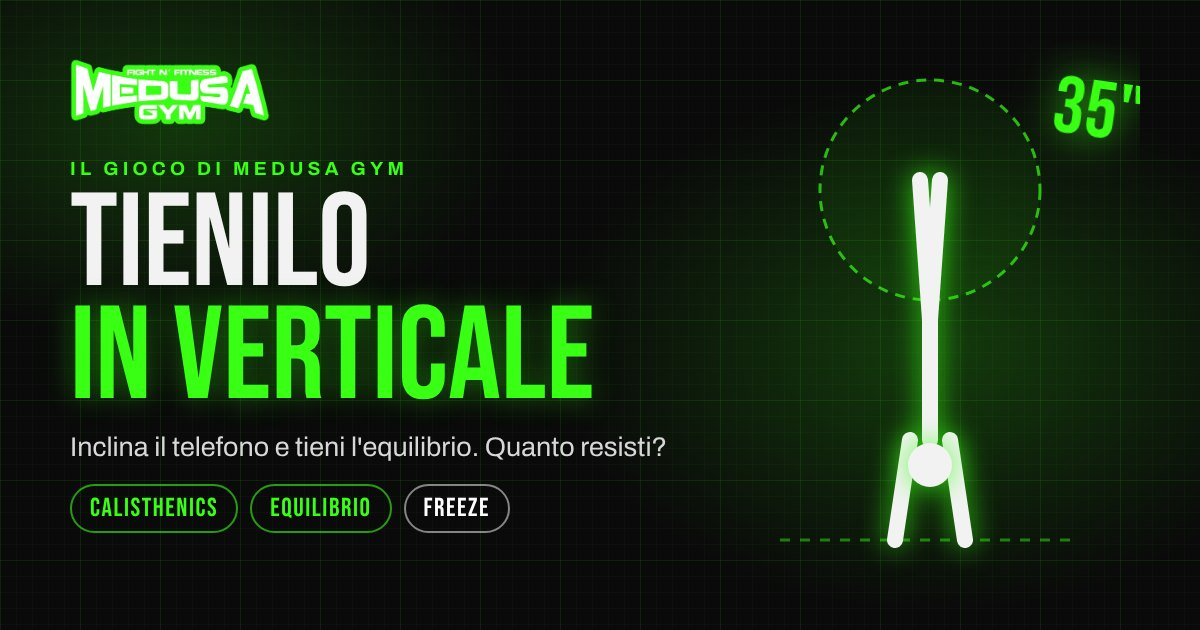
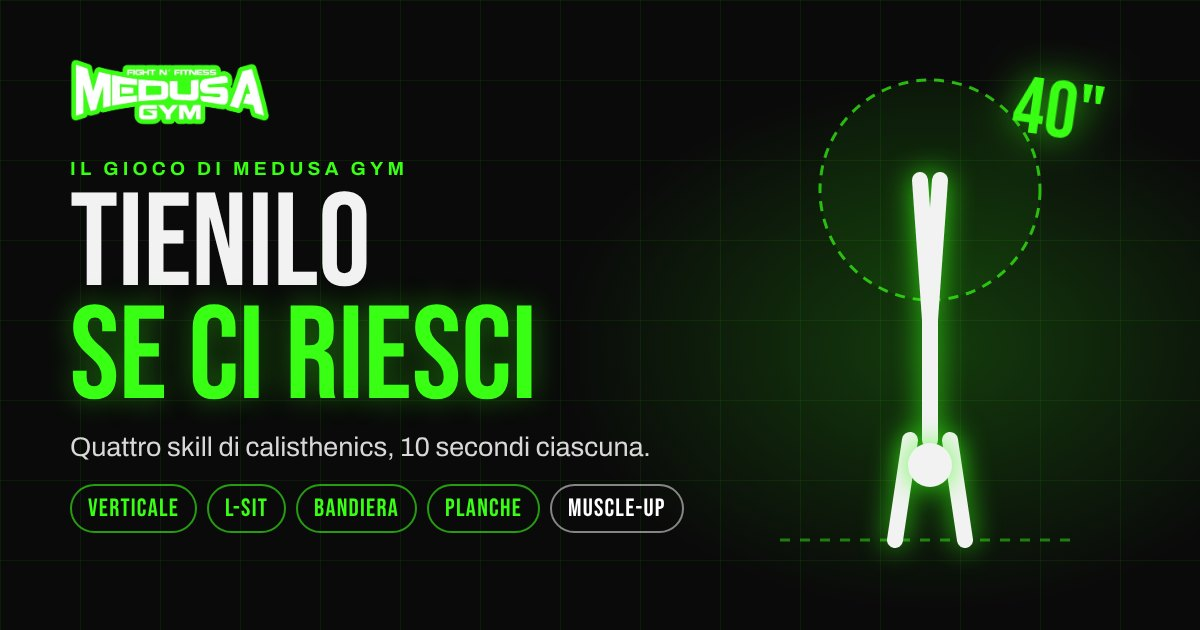
Pagine di prova giochi: Tienilo diventa 4 skill (verticale, L-sit, bandiera, planche) + muscle-up, con bersaglio mobile, spinte e gravità; WOD lampo senza la parola box nei testi
Claude-Session: https://claude.ai/code/session_01749bdvhsPXF6p1GP3Ha98d

diff --git a/medusa-gym/tienilo.html b/medusa-gym/tienilo.html
@@ -24,16 +24,16 @@ window.addEventListener('load',run)})();
 </script>
 <!-- GA4: eventi del sito (WhatsApp, telefono, CTA, chat, form...): vedi js/track.js -->
 <script src="/js/track.js" defer></script>
-<title>Tienilo | Il gioco della verticale di Medusa Gym Roma</title>
-<meta name="description" content="Tieni la verticale in equilibrio inclinando il telefono: gambe aperte, su un braccio e freeze finale. Il gioco di calisthenics di Medusa Gym, Roma Cinecittà.">
+<title>Tienilo | Il gioco di calisthenics di Medusa Gym Roma</title>
+<meta name="description" content="Verticale, L-sit, bandiera e planche: tienile 10 secondi ciascuna inclinando il telefono, poi 3 muscle-up. Il gioco di calisthenics di Medusa Gym, Roma Cinecittà.">
 <meta name="theme-color" content="#0A0A0A">
 <meta name="robots" content="noindex, nofollow">
 <link rel="canonical" href="https://www.medusagym.it/tienilo.html">
 <meta property="og:site_name" content="Medusa Gym - Fight n' Fitness">
 <meta property="og:type" content="website">
 <meta property="og:locale" content="it_IT">
-<meta property="og:title" content="Tienilo: quanto tieni la verticale?">
-<meta property="og:description" content="Tieni la verticale in equilibrio inclinando il telefono: gambe aperte, su un braccio e freeze finale. Il gioco di calisthenics di Medusa Gym, Roma Cinecittà.">
+<meta property="og:title" content="Tienilo: verticale, L-sit, bandiera, planche">
+<meta property="og:description" content="Verticale, L-sit, bandiera e planche: tienile 10 secondi ciascuna inclinando il telefono, poi 3 muscle-up. Il gioco di calisthenics di Medusa Gym, Roma Cinecittà.">
 <meta property="og:url" content="https://www.medusagym.it/tienilo.html">
 <meta property="og:image" content="https://www.medusagym.it/images/og-tienilo.jpg">
 <meta property="og:image:width" content="1200">
@@ -56,7 +56,7 @@ document.addEventListener('cookieyes_banner_load',run);
 window.addEventListener('load',run)})();
 </script>
 <!-- End Meta Pixel -->
-<script type="application/ld+json">{"@context":"https://schema.org","@type":["WebApplication","VideoGame"],"name":"Tienilo","url":"https://www.medusagym.it/tienilo.html","description":"Tieni la verticale in equilibrio inclinando il telefono: gambe aperte, su un braccio e freeze finale. Il gioco di calisthenics di Medusa Gym, Roma Cinecittà.","applicationCategory":"GameApplication","operatingSystem":"Web","inLanguage":"it-IT","isAccessibleForFree":true,"genre":"Sport","about":"Calisthenics","publisher":{"@id":"https://www.medusagym.it/#palestra"}}</script>
+<script type="application/ld+json">{"@context":"https://schema.org","@type":["WebApplication","VideoGame"],"name":"Tienilo","url":"https://www.medusagym.it/tienilo.html","description":"Verticale, L-sit, bandiera e planche: tienile 10 secondi ciascuna inclinando il telefono, poi 3 muscle-up. Il gioco di calisthenics di Medusa Gym, Roma Cinecittà.","applicationCategory":"GameApplication","operatingSystem":"Web","inLanguage":"it-IT","isAccessibleForFree":true,"genre":"Sport","about":"Calisthenics","publisher":{"@id":"https://www.medusagym.it/#palestra"}}</script>
 <style>
 @font-face{font-family:'Bebas Neue';src:url(/fonts/bebas-neue-latin.woff2) format('woff2');font-weight:400;font-style:normal;font-display:swap}
 @font-face{font-family:'Archivo';src:url(/fonts/archivo-latin-var.woff2) format('woff2');font-weight:100 900;font-stretch:62% 125%;font-style:normal;font-display:swap}
@@ -108,17 +108,22 @@ h1,h2,.big{font-family:var(--fh);font-weight:400;text-transform:uppercase;line-h
 </style>
 <style>
 .top{text-align:center;margin-top:10px}
-.lvname{font-family:var(--fh);font-size:clamp(30px,9vw,42px);line-height:1}
-.inst{font-weight:700;color:var(--green);font-size:14px;letter-spacing:.04em;margin-top:4px;min-height:18px}
-.meter{position:relative;height:14px;max-width:320px;margin:12px auto 0;border-radius:9px;background:linear-gradient(90deg,rgba(255,80,80,.5),rgba(255,180,90,.35) 25%,rgba(57,255,20,.45) 42%,rgba(57,255,20,.45) 58%,rgba(255,180,90,.35) 75%,rgba(255,80,80,.5))}
-.meter i{position:absolute;top:-4px;width:6px;height:22px;border-radius:3px;background:#fff;left:50%;margin-left:-3px;box-shadow:0 0 10px #fff}
-#cv{flex:1;min-height:0;width:100%;touch-action:none;display:block;cursor:grab}
+.lvname{font-family:var(--fh);font-size:clamp(32px,9.5vw,44px);line-height:1}
+.inst{font-weight:700;color:var(--green);font-size:14px;letter-spacing:.03em;margin-top:4px;min-height:18px;padding:0 6px}
+.meter{position:relative;height:14px;max-width:320px;margin:10px auto 0;border-radius:9px;background:linear-gradient(90deg,rgba(255,80,80,.55),rgba(255,180,90,.35) 25%,rgba(57,255,20,.45) 40%,rgba(57,255,20,.45) 60%,rgba(255,180,90,.35) 75%,rgba(255,80,80,.55))}
+.meter i{position:absolute;top:-4px;width:6px;height:22px;border-radius:3px;background:#fff;left:50%;margin-left:-3px;box-shadow:0 0 10px #fff;transition:left .05s linear}
+.skbar{display:flex;gap:6px;max-width:320px;margin:10px auto 0}
+.skbar i{flex:1;height:5px;border-radius:9px;background:rgba(255,255,255,.12);position:relative;overflow:hidden}
+.skbar i b{position:absolute;inset:0;width:0;background:var(--green)}
+.skbar i.done b{width:100%}
+#cv{flex:1;min-height:0;width:100%;touch-action:none;display:block}
 .mode{display:flex;gap:8px;margin:14px 0 4px}
 .mode button{flex:1;border:1px solid var(--stroke);background:var(--glass);color:var(--txt);font:400 19px var(--fh);letter-spacing:.05em;padding:12px 6px;border-radius:999px;cursor:pointer}
 .mode button[aria-pressed="true"]{background:var(--green);color:#041004;border-color:var(--green);box-shadow:0 0 20px rgba(57,255,20,.4)}
 .note{font-size:12px;color:var(--mut);margin-top:8px;line-height:1.4}
 .hint{text-align:center;color:var(--mut);font-size:12px;font-weight:600;margin-top:4px;min-height:15px}
-.freeze .meter{box-shadow:0 0 0 2px #8fe8ff,0 0 24px rgba(143,232,255,.6)}
+.warn{position:fixed;top:44%;z-index:9;font-family:var(--fh);font-size:64px;color:#ffb35c;text-shadow:0 0 24px rgba(255,140,40,.8);pointer-events:none;animation:wr .7s ease-out both}
+@keyframes wr{0%{opacity:0;transform:scale(1.8)}30%{opacity:1;transform:scale(1)}100%{opacity:0}}
 </style>
 </head>
 <body>
@@ -126,9 +131,10 @@ h1,h2,.big{font-family:var(--fh);font-weight:400;text-transform:uppercase;line-h
 <div class="bp"></div><div class="aurora"></div>
 <canvas id="fx"></canvas>
 <div id="game">
-  <div class="hud" style="margin-top:14px"><div id="lvn">LIVELLO 1</div><div class="score" id="sec">0,0</div><div>SECONDI</div></div>
-  <div class="top"><div class="lvname" id="lvname">Verticale</div><div class="inst" id="inst"></div><div class="meter" aria-hidden="true"><i id="mi"></i></div></div>
-  <canvas id="cv" aria-label="Atleta in verticale: tienilo in equilibrio"></canvas>
+  <div class="hud" style="margin-top:14px"><div id="skn">ESERCIZIO 1/4</div><div class="score" id="sec">0,0</div><div>SECONDI</div></div>
+  <div class="top"><div class="lvname" id="lvname">Tienilo</div><div class="inst" id="inst"></div><div class="meter" aria-hidden="true"><i id="mi"></i></div>
+  <div class="skbar" aria-hidden="true"><i><b></b></i><i><b></b></i><i><b></b></i><i><b></b></i><i><b></b></i></div></div>
+  <canvas id="cv" aria-label="Area di gioco"></canvas>
   <div class="hint" id="hint"></div>
 </div>
 <div class="overlay" id="ov"></div>
@@ -164,104 +170,152 @@ function countUp(el,n,dec=0,ms=1200){const t0=performance.now();const tk=t=>{con
 const C=$("cv"),X=C.getContext("2d");let CW,CH;
 function fitC(){const d=Math.min(2,devicePixelRatio||1),r=C.getBoundingClientRect();CW=r.width;CH=r.height;C.width=CW*d;C.height=CH*d;X.setTransform(d,0,0,d,0,0)}
 addEventListener("resize",fitC);
-const LV=[{n:"Verticale",t:0,G:2.6,noise:.6},{n:"Gambe aperte",t:10,G:3.4,noise:.85},{n:"Su un braccio",t:20,G:4.2,noise:1.05},{n:"Freeze",t:30,G:4.4,noise:.45,freeze:true},{n:"Leggenda",t:35,G:5,noise:1.3}];
+const SKDUR=10;
+/* ---------- input: inclinazione (destra/sinistra e avanti/indietro), dito, tastiera, tocchi ---------- */
 let MODE=(window.DeviceOrientationEvent&&matchMedia("(pointer:coarse)").matches)?"tilt":"dito";
-let G={},tiltRaw=0,tiltBase=0,gotTilt=false,drag=null;
-addEventListener("deviceorientation",e=>{if(e.gamma==null)return;gotTilt=true;tiltRaw=e.gamma});
-C.addEventListener("pointerdown",e=>{e.preventDefault();drag={x0:e.clientX,x:e.clientX};C.setPointerCapture(e.pointerId)});
-C.addEventListener("pointermove",e=>{if(drag)drag.x=e.clientX});
+let gRaw=0,bRaw=0,g0=0,b0=0,gotTilt=false,drag=null,kx=0,ky=0;
+addEventListener("deviceorientation",e=>{if(e.gamma==null)return;gotTilt=true;gRaw=e.gamma;bRaw=e.beta});
+C.addEventListener("pointerdown",e=>{e.preventDefault();ac();drag={x0:e.clientX,y0:e.clientY,x:e.clientX,y:e.clientY};try{C.setPointerCapture(e.pointerId)}catch(x){}if(G.state==="play"&&SK[G.k].tap)SK[G.k].tap(e)});
+C.addEventListener("pointermove",e=>{if(drag){drag.x=e.clientX;drag.y=e.clientY}});
 const endDrag=()=>{drag=null};C.addEventListener("pointerup",endDrag);C.addEventListener("pointercancel",endDrag);
-let keyDir=0;addEventListener("keydown",e=>{if(e.key==="ArrowLeft")keyDir=-1;if(e.key==="ArrowRight")keyDir=1});addEventListener("keyup",e=>{if(e.key==="ArrowLeft"||e.key==="ArrowRight")keyDir=0});
-function control(){let c=0;
-  if(MODE==="tilt"&&gotTilt)c=(tiltRaw-tiltBase)/18;
-  if(drag)c=(drag.x-drag.x0)/90;
-  if(keyDir)c=keyDir*.8;
-  return Math.max(-1,Math.min(1,c))}
-/* omino in verticale: perno nelle mani, angolo th */
-function drawMan(th,lvIdx,glow){const cx=CW/2,fy=CH-40,sc=Math.min(1,CH/420);
-  X.clearRect(0,0,CW,CH);
-  // pavimento
-  X.strokeStyle="rgba(57,255,20,.35)";X.setLineDash([6,6]);X.lineWidth=2;X.beginPath();X.moveTo(cx-150,fy);X.lineTo(cx+150,fy);X.stroke();X.setLineDash([]);
-  // cerchio bersaglio per i piedi
-  const L=230*sc,lim=G.lim;X.strokeStyle=glow?"rgba(143,232,255,.8)":"rgba(57,255,20,.6)";X.lineWidth=2;X.setLineDash([5,5]);X.beginPath();X.arc(cx,fy-L,Math.sin(lim)*L,0,7);X.stroke();X.setLineDash([]);
-  X.fillStyle="rgba(57,255,20,.06)";X.fill();
-  X.save();X.translate(cx,fy);X.rotate(th);X.scale(sc,sc);
-  X.strokeStyle="#F2F2F2";X.lineWidth=8;X.lineCap="round";X.lineJoin="round";X.shadowColor=glow?"#8fe8ff":"rgba(57,255,20,.7)";X.shadowBlur=14;
-  const P=(pts)=>{X.beginPath();X.moveTo(pts[0][0],pts[0][1]);for(let i=1;i<pts.length;i++)X.lineTo(pts[i][0],pts[i][1]);X.stroke()};
-  const one=lvIdx>=2&&lvIdx!==3;
-  // braccia
-  if(one){P([[0,0],[0,-62]]);P([[0,-62],[28,-40],[44,-52]])}else{P([[-22,0],[-14,-62]]);P([[22,0],[14,-62]])}
-  // busto
-  P([[0,-62],[0,-140]]);
-  // testa (sotto le spalle, verso il pavimento)
-  X.fillStyle="#F2F2F2";X.beginPath();X.arc(0,-46,13,0,7);X.fill();
-  // gambe
-  if(lvIdx===1)P([[0,-140],[-48,-215]]),P([[0,-140],[48,-215]]);
-  else P([[0,-140],[-5,-230]]),P([[0,-140],[5,-230]]);
-  X.restore();
-  // mani a terra
-  X.fillStyle="#39FF14";X.beginPath();X.arc(cx,fy,5,0,7);X.fill();
-}
-function hudMeter(th){$("mi").style.left=(50+Math.max(-1,Math.min(1,th/G.lim))*48)+"%"}
+addEventListener("keydown",e=>{if(e.key==="ArrowLeft")kx=-1;if(e.key==="ArrowRight")kx=1;if(e.key==="ArrowUp")ky=-1;if(e.key==="ArrowDown")ky=1;
+  if((e.key===" "||e.key==="Enter")&&!e.repeat&&G.state==="play"&&SK[G.k].tap){e.preventDefault();SK[G.k].tap({clientX:innerWidth/2,clientY:innerHeight/2})}});
+addEventListener("keyup",e=>{if(e.key==="ArrowLeft"||e.key==="ArrowRight")kx=0;if(e.key==="ArrowUp"||e.key==="ArrowDown")ky=0});
+const cl=v=>Math.max(-1,Math.min(1,v));
+function ctrlX(){if(kx)return kx*.8;if(drag&&!SK[G.k].tap)return cl((drag.x-drag.x0)/90);if(MODE==="tilt"&&gotTilt)return cl((gRaw-g0)/18);return 0}
+function ctrlY(){if(ky)return ky*.8;if(drag)return cl((drag.y-drag.y0)/90);if(MODE==="tilt"&&gotTilt)return cl((bRaw-b0)/18);return 0}
+/* ---------- disegno ---------- */
+function stroke(glow){X.strokeStyle="#F2F2F2";X.lineWidth=8;X.lineCap="round";X.lineJoin="round";X.shadowColor=glow||"rgba(57,255,20,.7)";X.shadowBlur=14;X.fillStyle="#F2F2F2"}
+function P(pts){X.beginPath();X.moveTo(pts[0][0],pts[0][1]);for(let i=1;i<pts.length;i++)X.lineTo(pts[i][0],pts[i][1]);X.stroke()}
+function head(x,y){X.beginPath();X.arc(x,y,13,0,7);X.fill()}
+function floorLine(y){X.save();X.shadowBlur=0;X.strokeStyle="rgba(57,255,20,.35)";X.setLineDash([6,6]);X.lineWidth=2;P([[CW/2-160,y],[CW/2+160,y]]);X.restore()}
+function target(x,y,r,col){X.save();X.shadowBlur=0;X.strokeStyle=col||"rgba(57,255,20,.65)";X.lineWidth=2;X.setLineDash([5,5]);X.beginPath();X.arc(x,y,r,0,7);X.stroke();X.fillStyle="rgba(57,255,20,.07)";X.fill();X.restore()}
+const sc=()=>Math.min(1,CH/430,CW/340);
+/* ---------- esercizi ---------- */
+const SK=[
+/* 1. VERTICALE: equilibrio destra/sinistra, il cerchio si sposta e arrivano spinte */
+{n:"Verticale",inst:"Tieni i piedi nel cerchio: si sposta!",hint:()=>MODE==="tilt"?"Inclina il telefono a destra e sinistra":"Trascina il dito a destra e sinistra",
+ init(){G.th=(Math.random()<.5?-1:1)*.03;G.w=0;G.ph=Math.random()*6},
+ step(dt,t){const tg=.2*Math.sin(t*.9+G.ph)+.08*Math.sin(t*2.3);G.tg=tg;
+  const acc=2.8*Math.sin(G.th)+ctrlX()*7.5-2*G.w+G.noise*2;G.w+=acc*dt;G.th+=G.w*dt;
+  gust(t,v=>G.w+=v);G.err=(G.th-tg)/.3;return Math.abs(G.th-tg)>.3||Math.abs(G.th)>.75},
+ draw(){const s=sc(),cx=CW/2,fy=CH-36,L=230*s;floorLine(fy);target(cx+Math.sin(G.tg)*L,fy-Math.cos(G.tg)*L,Math.sin(.3)*L);
+  X.save();X.translate(cx,fy);X.rotate(G.th);X.scale(s,s);stroke();P([[-22,0],[-14,-62]]);P([[22,0],[14,-62]]);P([[0,-62],[0,-140]]);head(0,-46);P([[0,-140],[-5,-230]]);P([[0,-140],[5,-230]]);X.restore()}},
+/* 2. L-SIT: le gambe cedono con la fatica, tocchi per tenerle su (ma non troppo) */
+{n:"L-sit",inst:"Tocca per tenere su le gambe, nella fascia verde",hint:()=>"Tocca lo schermo a ritmo: troppo poco cedono, troppo salgono",
+ init(){G.phi=.05;G.v=0},
+ tap(e){G.v-=.6;tone(740,.04,"triangle",.08);vib(6)},
+ step(dt,t){const f=.32+t*.035+Math.max(0,Math.sin(t*1.7))*.12;G.v+=(f*2.4-G.v*2.2)*dt;G.phi+=G.v*dt+G.noise*.15*dt;
+  G.err=(G.phi-.04)/.24;return G.phi>.42||G.phi<-.36},
+ draw(){const s=sc(),cx=CW/2,fy=CH-36;floorLine(fy);
+  X.save();X.translate(cx-40*s,fy);X.scale(s,s);
+  X.save();X.shadowBlur=0;X.fillStyle="rgba(255,255,255,.18)";X.fillRect(-26,-70,10,70);X.fillRect(18,-70,10,70);X.fillRect(-40,-78,80,8);X.restore();
+  stroke();const hip=[18,-104];P([[-4,-78],[-4,-178]]);P([[-4,-178],hip]);head(-8,-202);
+  const a=G.phi,knee=[hip[0]+Math.cos(a)*80,hip[1]+Math.sin(a)*80],foot=[hip[0]+Math.cos(a)*165,hip[1]+Math.sin(a)*165];P([hip,knee,foot]);
+  X.save();X.shadowBlur=0;X.strokeStyle="rgba(57,255,20,.55)";X.lineWidth=2;X.setLineDash([5,5]);X.beginPath();X.moveTo(hip[0],hip[1]);X.arc(hip[0],hip[1],175,-.2,.28);X.closePath();X.stroke();X.fillStyle="rgba(57,255,20,.08)";X.fill();X.restore();
+  X.restore()}},
+/* 3. BANDIERA: il corpo è orizzontale sul palo, la gravità lo tira giù sempre */
+{n:"Bandiera",inst:"La gravità lo tira giù: tienilo orizzontale",hint:()=>MODE==="tilt"?"Inclina a destra per alzarlo, a sinistra per abbassarlo":"Trascina a destra per alzarlo, a sinistra per abbassarlo",
+ init(){G.psi=0;G.w=0;G.ph=Math.random()*6},
+ step(dt,t){const bias=1.6+.7*Math.sin(t*1.25+G.ph)+.35*Math.sin(t*3.1);G.bias=bias;
+  const acc=-bias+ctrlX()*4.2-2.4*G.w+G.noise*1.5;G.w+=acc*dt;G.psi+=G.w*dt;gust(t,v=>G.w+=v*.7,true);
+  G.err=G.psi/.42;return Math.abs(G.psi)>.42},
+ draw(){const s=sc(),px=CW/2-110*s,fy=CH-36;floorLine(fy);
+  X.save();X.shadowBlur=0;X.fillStyle="rgba(255,255,255,.22)";X.fillRect(px-7,fy-330*s,14,330*s);X.restore();
+  X.save();X.translate(px,fy-185*s);X.rotate(-G.psi);X.scale(s,s);
+  X.save();X.shadowBlur=0;X.strokeStyle="rgba(57,255,20,.5)";X.lineWidth=2;X.setLineDash([5,5]);P([[20,-30],[250,-30]]);P([[20,30],[250,30]]);X.restore();
+  stroke();P([[0,-55],[38,-20]]);P([[0,40],[38,8]]);P([[38,-20],[38,8],[130,0]]);head(28,-34);P([[130,0],[235,-6]]);P([[130,0],[235,8]]);X.restore()}},
+/* 4. PLANCHE: equilibrio avanti/indietro, il bersaglio si muove */
+{n:"Planche",inst:"Avanti e indietro: tieni le spalle sul bersaglio",hint:()=>MODE==="tilt"?"Inclina il telefono avanti e indietro":"Trascina il dito su e giù",
+ init(){G.th=(Math.random()<.5?-1:1)*.03;G.w=0;G.ph=Math.random()*6},
+ step(dt,t){const tg=.14*Math.sin(t*1.1+G.ph);G.tg=tg;
+  const acc=2.8*Math.sin(G.th)-ctrlY()*7.5-2*G.w+G.noise*2.2;G.w+=acc*dt;G.th+=G.w*dt;gust(t,v=>G.w+=v);
+  G.err=(G.th-tg)/.26;return Math.abs(G.th-tg)>.26||Math.abs(G.th)>.7},
+ draw(){const s=sc(),cx=CW/2,fy=CH-60;floorLine(fy+24*s);
+  const sx=cx+Math.sin(G.tg)*120*s;target(sx,fy-70*s,26*s);
+  X.save();X.translate(cx,fy);X.scale(s,s);stroke();
+  const sh=[Math.sin(G.th)*120,-70];P([[-8,24],[sh[0]*.4,-25],sh]);P([[8,24],[sh[0]*.4+6,-25],[sh[0]+6,-70]]);
+  head(sh[0]+22,-80);P([sh,[sh[0]-150,-64-Math.sin(G.th)*30]]);P([[sh[0]-150,-64-Math.sin(G.th)*30],[sh[0]-230,-60-Math.sin(G.th)*50]]);X.restore()}}
+];
+/* finale: muscle-up a tempo */
+const MU={n:"Muscle-up",inst:"Tocca nel verde per salire sopra la sbarra",hint:()=>"3 tentativi: ogni muscle-up vale 5 secondi di bonus"};
+/* spinte improvvise con avviso */
+function gust(t,apply,down){if(t<G.nextGust)return;if(!G.gw){G.gw={dir:down?-1:(Math.random()<.5?-1:1),at:t+.7};
+  const w=document.createElement("div");w.className="warn";w.style.animationDuration=".85s";w.textContent=G.gw.dir<0?(down?"↓ SPINTA":"← SPINTA"):"SPINTA →";w.style.left=G.gw.dir<0?"14%":"auto";w.style.right=G.gw.dir>0?"14%":"auto";document.body.appendChild(w);setTimeout(()=>w.remove(),850);tone(330,.12,"sawtooth",.08)}
+  else if(t>=G.gw.at){apply(G.gw.dir*.6*(1+G.k*.15));G.gw=null;G.nextGust=t+2.2+Math.random()*1.8-G.k*.2}}
+/* ---------- flusso ---------- */
 async function calibrate(){
   if(MODE==="tilt"&&typeof DeviceOrientationEvent!=="undefined"&&typeof DeviceOrientationEvent.requestPermission==="function"){
     try{const r=await DeviceOrientationEvent.requestPermission();if(r!=="granted")MODE="dito"}catch(e){MODE="dito"}}
-  if(MODE==="tilt"){await splash("Tieni il telefono","dritto davanti a te",1000);await sleep(300);
-    if(!gotTilt){MODE="dito";await splash("Uso il dito","il telefono non manda l'inclinazione",1300)}else{let s=0,n=0;const t0=performance.now();while(performance.now()-t0<500){s+=tiltRaw;n++;await sleep(25)}tiltBase=s/n}}
-  $("hint").textContent=MODE==="tilt"?"Se cade da una parte, inclina il telefono dalla parte opposta":"Se cade da una parte, trascina il dito dalla parte opposta";}
-async function start(){G={th:(Math.random()<.5?-1:1)*.02,w:0,t:0,lv:0,lim:.55,state:"wait",fz:0,noise:0};$("sec").textContent="0,0";fitC();drawMan(G.th,0);
+  if(MODE==="tilt"){await splash("Tieni il telefono","comodo davanti a te",1000);await sleep(250);
+    if(!gotTilt){MODE="dito";await splash("Uso il dito","il telefono non manda l'inclinazione",1300)}
+    else{let a=0,b=0,n=0;const t0=performance.now();while(performance.now()-t0<500){a+=gRaw;b+=bRaw;n++;await sleep(25)}g0=a/n;b0=b/n}}}
+function setSkill(k){G.k=k;const s=SK[k];$("skn").textContent="ESERCIZIO "+(k+1)+"/4";$("lvname").textContent=s.n;$("inst").textContent=s.inst;$("hint").textContent=s.hint();
+  document.querySelectorAll(".skbar i").forEach((e,i)=>e.classList.toggle("done",i<k));G.nextGust=1.6+Math.random();G.gw=null;G.noise=0;G.err=0;s.init()}
+async function start(){G={t:0,k:0,state:"wait",noise:0,total:0,mu:0};$("sec").textContent="0,0";fitC();X.clearRect(0,0,CW,CH);
   await calibrate();
-  for(const n of ["3","2","1"]){await splash(n,"",600);tone(660,.1,"square",.1)}
-  await splash("Tienilo!","",600);tone(1046,.15,"triangle",.18);trk("tienilo_start",{modo:MODE});
-  G.state="play";G.last=performance.now();setLevel(0);requestAnimationFrame(step)}
-function setLevel(i){G.lv=i;const L=LV[i];$("lvn").textContent="LIVELLO "+(i+1);$("lvname").textContent=L.n;G.lim=[.55,.5,.44,.44,.4][i];
-  document.body.classList.toggle("freeze",!!L.freeze);
-  $("inst").textContent=L.freeze?"Resta immobile al centro per 5 secondi: bonus!":i===0?"Tienilo dentro il cerchio":i===1?"Le gambe aperte lo rendono più instabile":i===2?"Un braccio solo: equilibrio fine":"Fin dove arrivi?";
-  if(i>0){tone(1318,.12,"triangle",.16);setTimeout(()=>tone(1760,.14,"triangle",.14),90);vib([20,40,20]);
-    $("ov").innerHTML=`<div class="splash"><div class="big" style="font-size:clamp(36px,10vw,60px)">${L.freeze?"Freeze!":L.n}</div></div>`;setTimeout(()=>$("ov").innerHTML="",900)}}
-function step(t){if(G.state!=="play")return;let dt=Math.min(.04,(t-G.last)/1000);G.last=t;G.t+=dt;
-  const L=LV[G.lv];
-  // rumore lento (tremore del corpo) + piccole spinte
-  G.noise+= (Math.random()-.5)*L.noise*dt*6;G.noise*=Math.pow(.2,dt);
-  const c=control();
-  const acc=L.G*Math.sin(G.th)+c*7.5-2*G.w+G.noise*2.2;
-  G.w+=acc*dt;G.th+=G.w*dt;
-  if(L.freeze){if(Math.abs(G.th)<.12&&Math.abs(G.w)<.5)G.fz+=dt}
-  const nx=LV.findIndex((l,i)=>i>G.lv&&G.t>=l.t);if(nx>0)setLevel(nx);
-  $("sec").textContent=G.t.toFixed(1).replace(".",",");
-  drawMan(G.th,G.lv,!!L.freeze);hudMeter(G.th);
-  if(Math.abs(G.th)>G.lim){fall();return}
-  requestAnimationFrame(step)}
-async function fall(){G.state="wait";tone(220,.3,"sawtooth",.14,80);vib([60,40,80]);
-  // caduta animata
-  const dir=Math.sign(G.th),t0=performance.now();await new Promise(r=>{const a=t=>{const k=Math.min(1,(t-t0)/450);drawMan(G.th+dir*k*1.2,G.lv,false);if(k<1)requestAnimationFrame(a);else r()};requestAnimationFrame(a)});
-  const r=C.getBoundingClientRect();spark(r.left+r.width/2+dir*80,r.bottom-40,40,"255,180,90");
-  await splash("Giù!","",800);end()}
-function level(s){return s>=35?["Leggenda della verticale","Equilibrio da atleta. Vieni a mostrarlo a Yvonne."]:s>=20?["Corpo libero vero","Controllo e calma: in sala con la calisthenics arrivi alla verticale vera."]:s>=10?["In equilibrio","Buon controllo. La verticale vera si costruisce con le progressioni giuste."]:["Principiante","Tutti partono da qui. La prima lezione di Calisthenics è gratis."]}
-function end(){const bonus=Math.min(10,Math.round(G.fz*2)),tot=+(G.t+bonus).toFixed(1),[lv,txt]=level(tot);
-  trk("tienilo_end",{secondi:tot,livello:lv,modo:MODE,bonus});
-  const s=tot.toFixed(1).replace(".",",");
-  const msg=`Ciao Medusa! Ho tenuto la verticale ${s} secondi a "Tienilo" sul vostro sito (livello: ${lv}). Voglio provarla dal vivo: posso prenotare la prova gratuita di Calisthenics?`;
-  $("scr").innerHTML=`<div class="card"><div class="eyebrow">VERTICALE TENUTA</div><div class="big final" id="fin">0</div><div class="unit">secondi</div><div class="lvl">${lv}</div><p>${txt}</p>
-    <div class="break"><div><b>${G.t.toFixed(1).replace(".",",")}</b>in equilibrio</div><div><b>+${bonus}</b>bonus freeze</div><div><b>${G.lv+1}</b>livello</div></div>
+  for(let k=0;k<SK.length;k++){
+    setSkill(k);X.clearRect(0,0,CW,CH);SK[k].draw();
+    await splash(SK[k].n,SK[k].inst,1500);
+    tone(1046,.15,"triangle",.18);if(k===0)trk("tienilo_start",{modo:MODE});
+    const ok=await run(k);if(!ok)return fall();
+    G.total+=SKDUR;perfect();vib([15,30,15]);spark(innerWidth/2,innerHeight*.35,50)}
+  document.querySelectorAll(".skbar i").forEach((e,i)=>e.classList.toggle("done",i<4));
+  await muscleUp();end(true)}
+function run(k){return new Promise(res=>{G.state="play";let t=0,last=performance.now();const bar=document.querySelectorAll(".skbar i b")[k];
+  const f=now=>{if(G.state!=="play")return;const dt=Math.min(.04,(now-last)/1000);last=now;t+=dt;
+    G.noise+=(Math.random()-.5)*(1+k*.25+t*.05)*dt*6;G.noise*=Math.pow(.2,dt);
+    const lost=SK[k].step(dt,t);$("sec").textContent=(G.total+t).toFixed(1).replace(".",",");bar.style.width=(t/SKDUR*100)+"%";
+    $("mi").style.left=(50+cl(G.err)*48)+"%";X.clearRect(0,0,CW,CH);SK[k].draw();
+    if(lost){G.state="wait";G.part=t;res(false);return}
+    if(t>=SKDUR){G.state="wait";bar.style.width="";res(true);return}requestAnimationFrame(f)};requestAnimationFrame(f)})}
+async function muscleUp(){$("skn").textContent="FINALE";$("lvname").textContent=MU.n;$("inst").textContent=MU.inst;$("hint").textContent=MU.hint();
+  await punch("Finale:<br><b>muscle-up!</b>");
+  for(let i=0;i<3;i++){let z0=.62+Math.random()*.2-i*.02,w=.2-i*.04,per=1200-i*150,done=false,hit=false,t0=performance.now(),up=0,fin=false;
+    await new Promise(res=>{const tap=()=>{if(done)return;done=true;const v=G.v;hit=v>=z0&&v<=z0+w;if(hit){perfect();vib(20);G.mu++;up=performance.now()}else{miss();vib([30,30])}setTimeout(()=>{fin=true;res()},hit?800:600)};
+      const on=e=>{e.preventDefault&&e.preventDefault();tap()};C.addEventListener("pointerdown",on);const kd=e=>{if(e.key===" "||e.key==="Enter"){e.preventDefault();tap()}};addEventListener("keydown",kd);
+      const f=now=>{const v=(Math.sin((now-t0)/per*6.283-1.57)+1)/2;if(!done)G.v=v;drawMU(done?G.v:v,z0,w,hit,up?Math.min(1,(now-up)/500):0,i);
+        if(!fin)requestAnimationFrame(f)};
+      requestAnimationFrame(f);G._clean=()=>{C.removeEventListener("pointerdown",on);removeEventListener("keydown",kd)}});
+    G._clean();if(hit){$("sec").textContent=(G.total+G.mu*5).toFixed(1).replace(".",",");spark(innerWidth/2,innerHeight*.35,40)}}}
+function drawMU(v,z0,w,hit,k,i){const s=sc(),cx=CW/2,by=CH*.32;X.clearRect(0,0,CW,CH);
+  X.save();X.shadowBlur=0;X.fillStyle="rgba(255,255,255,.3)";X.fillRect(cx-120*s,by-5,240*s,10);
+  const bx=cx+130*s,bt=by,bh=CH*.5;X.fillStyle="rgba(255,255,255,.08)";X.fillRect(bx,bt,22,bh);X.fillStyle="rgba(57,255,20,.45)";X.fillRect(bx,bt+bh*(1-z0-w),22,bh*w);
+  X.fillStyle="#fff";X.fillRect(bx-6,bt+bh*(1-v)-4,34,8);
+  X.restore();
+  X.save();X.translate(cx,by);X.scale(s,s);stroke();const lift=hit?k*120:v*40;
+  if(lift<70){P([[-20,0],[-16,60-lift*.3],[0,100-lift]]);P([[20,0],[16,60-lift*.3],[0,100-lift]]);head(0,118-lift);P([[0,100-lift],[0,190-lift]]);P([[0,190-lift],[-6,280-lift]]);P([[0,190-lift],[6,280-lift]])}
+  else{P([[-20,0],[-18,-40],[0,-60]]);P([[20,0],[18,-40],[0,-60]]);head(0,-76);P([[0,-60],[0,30]]);P([[0,30],[-6,120]]);P([[0,30],[6,120]])}
+  X.restore();
+  X.save();X.shadowBlur=0;X.fillStyle="rgba(255,255,255,.6)";X.font="700 13px Archivo,system-ui";X.textAlign="center";X.fillText("Tentativo "+(i+1)+" di 3",cx,CH-14);X.restore()}
+async function fall(){tone(220,.3,"sawtooth",.14,80);vib([60,40,80]);await splash("Giù!","",900);G.total+=G.part||0;end(false)}
+function level(s){return s>=50?["Leggenda della sbarra","Tutti e quattro gli esercizi e i muscle-up: vieni a mostrarlo a Yvonne."]:s>=35?["Corpo libero vero","Controllo e forza: in sala con la calisthenics completi il giro."]:s>=18?["In equilibrio","Buona base. Le skill vere si costruiscono con le progressioni giuste."]:["Principiante","Tutti partono da qui. La prima lezione di Calisthenics è gratis."]}
+function end(full){const bonus=G.mu*5,tot=+(G.total+bonus).toFixed(1),[lv,txt]=level(tot);
+  trk("tienilo_end",{secondi:tot,livello:lv,modo:MODE,esercizi:full?4:G.k,muscleup:G.mu});
+  const s=tot.toFixed(1).replace(".",","),names=["verticale","L-sit","bandiera","planche"];
+  const msg=`Ciao Medusa! Ho fatto ${s} secondi a "Tienilo" sul vostro sito (livello: ${lv}). Voglio provare la calisthenics dal vivo: posso prenotare la prova gratuita?`;
+  $("scr").innerHTML=`<div class="card"><div class="eyebrow">${full?"GIRO COMPLETO":"CADUTO IN "+names[G.k].toUpperCase()}</div><div class="big final" id="fin">0</div><div class="unit">secondi</div><div class="lvl">${lv}</div><p>${txt}</p>
+    <div class="break"><div><b>${full?4:G.k}/4</b>esercizi</div><div><b>${G.mu}/3</b>muscle-up</div><div><b>+${bonus}</b>bonus</div></div>
     <a class="btn" id="cta" target="_blank" rel="noopener" href="https://wa.me/${WA}?text=${encodeURIComponent(msg)}">Provala dal vivo</a>
     <button class="ghost" id="share">Sfida un amico</button><button class="ghost" id="again">Riprova</button><a class="back" href="/">&#8592; Torna al sito di Medusa Gym</a></div>`;
-  countUp($("fin"),tot,1);setTimeout(()=>spark(W/2,H*.3,tot>=20?90:40),400);
+  countUp($("fin"),tot,1);setTimeout(()=>spark(W/2,H*.3,full?90:40),400);
   $("cta").addEventListener("click",()=>{try{if(typeof fbq==="function")fbq("track","Contact")}catch(e){}});
-  shareBtn($("share"),`Ho tenuto la verticale ${s} secondi a Tienilo di Medusa Gym (${lv}). Riesci a battermi?`,GAME.url);
+  shareBtn($("share"),`Ho fatto ${s} secondi a Tienilo di Medusa Gym (${lv}). Riesci a battermi?`,GAME.url);
   $("again").onclick=()=>{$("scr").innerHTML="";start()}}
 function intro(){$("scr").innerHTML=`<div class="card"><a class="logo" href="/" aria-label="Medusa Gym, torna alla home"><img src="/logo-b.webp" alt="Medusa Gym Fight n' Fitness" width="480" height="191"></a><div class="eyebrow">IL GIOCO DI MEDUSA GYM</div><h1>Tienilo</h1>
-  <p>La verticale è controllo, non forza. Quanto riesci a tenerla?</p>
+  <p>Quattro skill di calisthenics, 10 secondi ciascuna. Se cadi, è finita.</p>
   <div class="mode" role="group" aria-label="Come vuoi giocare"><button type="button" data-m="tilt" aria-pressed="${MODE==="tilt"}">Inclina il telefono</button><button type="button" data-m="dito" aria-pressed="${MODE==="dito"}">Usa il dito</button></div>
-  <div class="rules"><div><b>Tienilo in equilibrio</b> se cade a destra, inclina (o trascina) a sinistra, e viceversa</div>
-  <div><b>Ogni 10 secondi si sale</b> gambe aperte, poi su un braccio: sempre più instabile</div>
-  <div><b>Freeze</b> a 30 secondi resta immobile al centro per il bonus</div></div>
-  <button class="btn" id="go">Sali in verticale</button>
+  <div class="rules"><div><b>Verticale</b> equilibrio a destra e sinistra, il cerchio si sposta</div>
+  <div><b>L-sit</b> tocca a ritmo per tenere su le gambe</div>
+  <div><b>Bandiera</b> la gravità tira sempre giù: non mollare</div>
+  <div><b>Planche</b> equilibrio avanti e indietro. Occhio alle spinte!</div>
+  <div><b>Finale</b> 3 muscle-up a tempo: 5 secondi di bonus ciascuno</div></div>
+  <button class="btn" id="go">Inizia</button>
   <p class="note">Su iPhone, con "Inclina il telefono", ti verrà chiesto di consentire l'accesso al movimento.</p>
   <a class="back" href="/">&#8592; Torna al sito di Medusa Gym</a></div>`;
   $("scr").querySelectorAll(".mode button").forEach(b=>b.onclick=()=>{MODE=b.dataset.m;$("scr").querySelectorAll(".mode button").forEach(x=>x.setAttribute("aria-pressed",x===b))});
   $("go").onclick=()=>{ac();$("scr").innerHTML="";start()}}
-fitC();G={th:0,lim:.55,lv:0};drawMan(0,0);intro();
+let G={k:0,state:"wait",noise:0};fitC();intro();
 </script>
 </body>
 </html>

diff --git a/medusa-gym/wod-lampo.html b/medusa-gym/wod-lampo.html
@@ -234,7 +234,7 @@ ST.box={start(){G.t0=performance.now();G.per=1300;G.z0=.72;G.z1=.92;G.jump=0},
   const X=on?150+60*(1-j):130,Y=on?-Math.sin((1-j)*3.14)*70-(1-j)*70:0;
   man({head:[X,128+Y],h:[X,141+Y],s:[X,168+Y],hl:[X,240+Y],kl:[X-10+ (v*8),280+Y],fl:[X-12,320+Y],kr:[X+12,280+Y],fr:[X+12,320+Y],el:[X-22,200+Y-v*20],wl:[X-30,230+Y-v*40]});
  },
- tap(e){const v=G.v;if(v>=G.z0&&v<=G.z1){perfect();vib(15);fbk("Sul box!");addRep(1,e.clientX,e.clientY);G.jump=performance.now()+450;const w=Math.max(.08,(G.z1-G.z0)-.015),c=.6+Math.random()*.3;G.z0=c-w/2;G.z1=c+w/2;G.per=Math.max(850,G.per-35)}
+ tap(e){const v=G.v;if(v>=G.z0&&v<=G.z1){perfect();vib(15);fbk("Salto pulito!");addRep(1,e.clientX,e.clientY);G.jump=performance.now()+450;const w=Math.max(.08,(G.z1-G.z0)-.015),c=.6+Math.random()*.3;G.z0=c-w/2;G.z1=c+w/2;G.per=Math.max(850,G.per-35)}
   else{miss();vib([30,30]);fbk(v<G.z0?"Corto!":"Troppo!","#ff6b6b")}}};
 ST.wall={start(){G.hold=0;G.pw=0;G.tg=.55+Math.random()*.3;G.w=.16;G.fly=0},
  draw(t){clear();floor();
@@ -282,7 +282,7 @@ async function tabata(){document.body.classList.add("tabata");$("sn").textConten
   const lp=t=>{const s=Math.max(0,TAB-(t-t0))/1000,c=Math.ceil(s);$("tbar").style.width=s/20*100+"%";
     if(c!==lastS){lastS=c;$("ts").textContent=c;if(c<=3&&c>0){beep();$("ts").classList.add("red")}}
     if(s<=0){G.state="wait";bell();document.body.classList.remove("tabata");setTimeout(end,800);return}requestAnimationFrame(lp)};requestAnimationFrame(lp)}
-function level(n){return n>=230?["Bestia da WOD","Sei pronto per il box. Vieni a fartelo vedere dal vivo."]:n>=180?["Atleta da box","Ritmo, precisione e fiato: in sala con Donatella voli."]:n>=120?["In forma","Buona base. Con un coach accanto la tecnica fa il salto."]:["Principiante","Tutti partono da qui. La prima lezione di Functional è gratis."]}
+function level(n){return n>=230?["Bestia da WOD","Sei una macchina. Vieni a fartelo vedere dal vivo in sala."]:n>=180?["Atleta della sala","Ritmo, precisione e fiato: in sala con Donatella voli."]:n>=120?["In forma","Buona base. Con un coach accanto la tecnica fa il salto."]:["Principiante","Tutti partono da qui. La prima lezione di Functional è gratis."]}
 function end(){const n=G.reps,[lv,txt]=level(n);trk("wod_end",{ripetizioni:n,livello:lv,tabata:G.tab});
   const msg=`Ciao Medusa! Ho fatto ${n} ripetizioni a WOD lampo sul vostro sito (livello: ${lv}). Voglio provarlo dal vivo: posso prenotare la prova gratuita di Functional Training?`;
   $("scr").innerHTML=`<div class="card"><div class="eyebrow">WOD COMPLETATO</div><div class="big final" id="fin">0</div><div class="unit">ripetizioni</div><div class="lvl">${lv}</div><p>${txt}</p>
